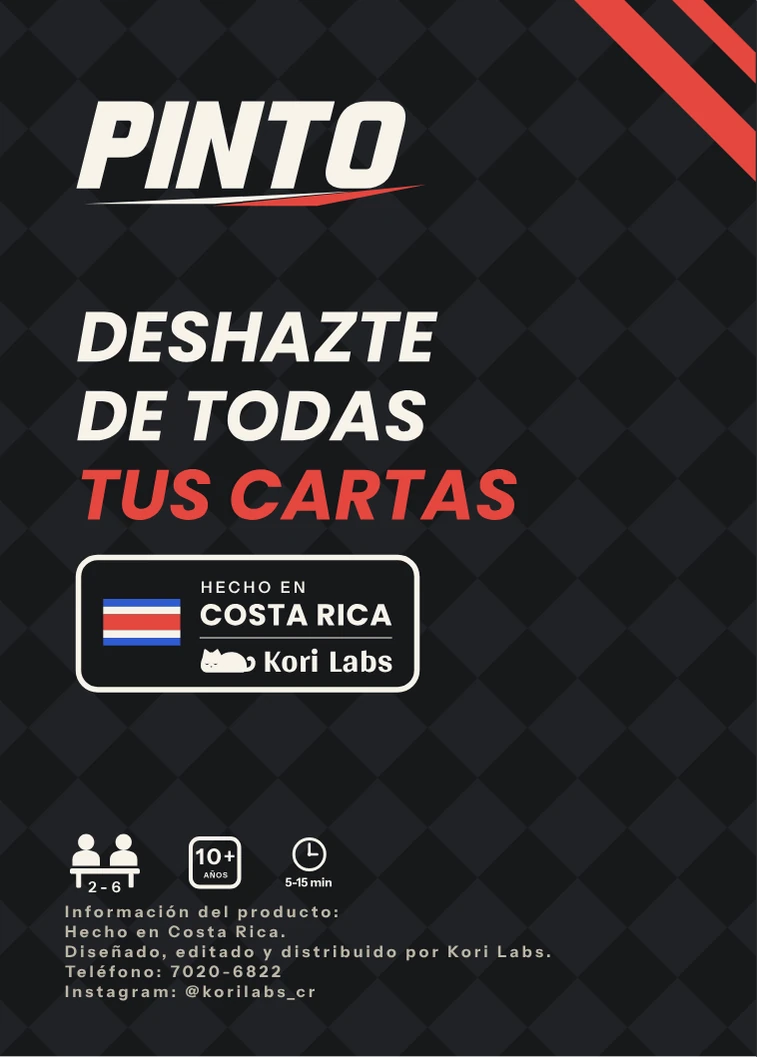
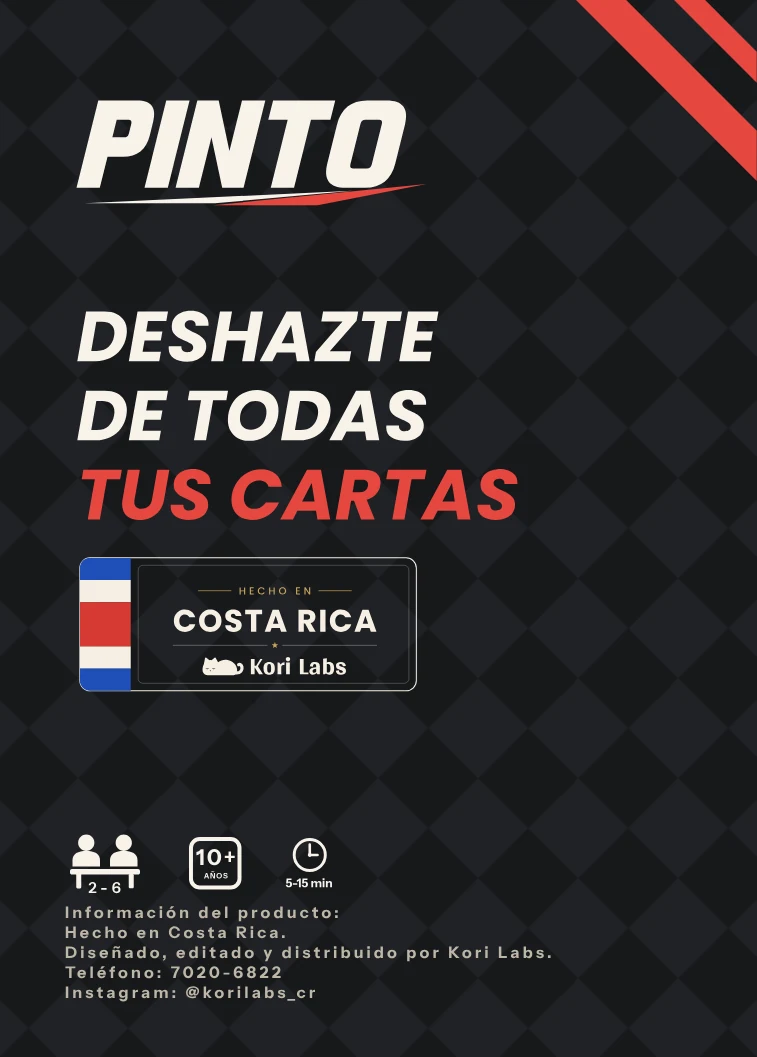
PINTO: show the new Hecho en Costa Rica seal on the 3D box (#49)
- Re-cut caja-reverso.webp from the owner's updated box art (Pinto_caja_ARTE.svg);
  only the back face changed (new seal), other faces untouched
- caja-reverso → ?v=4; CLAUDE.md notes where the back panel sits in the art file

Claude-Session: https://claude.ai/code/session_01NnqHpKXvdCMEMmsC6tfMJw

diff --git a/juegos/pinto/index.html b/juegos/pinto/index.html
@@ -100,7 +100,7 @@
           <div class="box-stage" id="box-stage" role="img" aria-label="Caja del juego PINTO en 3D, girando. Puedes arrastrarla para verla por todos lados.">
             <div class="box3d" id="box3d">
               <div class="box3d__face box3d__face--front"><img src="img/caja-frente.webp?v=3" alt="" draggable="false"></div>
-              <div class="box3d__face box3d__face--back"><img src="img/caja-reverso.webp?v=3" alt="" draggable="false"></div>
+              <div class="box3d__face box3d__face--back"><img src="img/caja-reverso.webp?v=4" alt="" draggable="false"></div>
               <div class="box3d__face box3d__face--right"><img src="img/caja-lado-der.webp?v=3" alt="" draggable="false"></div>
               <div class="box3d__face box3d__face--left"><img src="img/caja-lado-izq.webp?v=3" alt="" draggable="false"></div>
               <div class="box3d__face box3d__face--top"><img src="img/caja-arriba.webp?v=3" alt="" draggable="false"></div>

diff --git a/CLAUDE.md b/CLAUDE.md
@@ -220,7 +220,7 @@ container's real width (`drawChart`, redrawn on resize); colors are the player/t
 - **Cache busting:** CSS/JS/image links carry `?v=N`. When you change a file, bump its `N` **in every
   page that links it** (e.g. `home.css` is linked from `index.html` *and* `privacidad/index.html`).
   Current: `styles.css?v=2`, `home.css?v=11` (index, privacidad and taller/pinto),
-  `pinto.css?v=37`, card images `?v=6` (also `VER` in `demo.js` and `multi.js`), `pinto-demo.css?v=18`, `pinto-engine.js?v=14`, `demo.js?v=19`, `multi.js?v=5`, `legal.css?v=1`, `pinto-tutorial.css?v=16`, `tutorial-data.js?v=21`, `tutorial.js?v=21`, `pinto-temporada.css?v=12`, `temporada.js?v=12`, PINTO favicons `?v=1`, `menu.js?v=1`, `box3d.js?v=2`, `favicon.svg?v=2`, `sello-hecho-en-costa-rica.svg?v=3`, box faces `?v=3`.
+  `pinto.css?v=37`, card images `?v=6` (also `VER` in `demo.js` and `multi.js`), `pinto-demo.css?v=18`, `pinto-engine.js?v=14`, `demo.js?v=19`, `multi.js?v=5`, `legal.css?v=1`, `pinto-tutorial.css?v=16`, `tutorial-data.js?v=21`, `tutorial.js?v=21`, `pinto-temporada.css?v=12`, `temporada.js?v=12`, PINTO favicons `?v=1`, `menu.js?v=1`, `box3d.js?v=2`, `favicon.svg?v=2`, `sello-hecho-en-costa-rica.svg?v=3`, box faces `?v=3` (caja-reverso `?v=4`, re-cut from the owner's Pinto_caja_ARTE.svg: back panel x 1282, y 430, 757×1057 at 1 unit = 1 px).
 - **Relative paths everywhere** (`../../css/…`). Pages live in folders as `index.html` so URLs are clean
   (`/juegos/pinto/`). New pages: create `folder/index.html`, copy the head/header/footer of a sibling page.
 - **Sender (newsletter):** universal script in the `<head>` of `index.html`; form is
